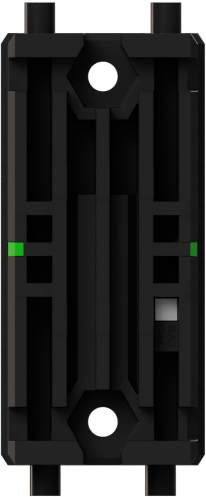
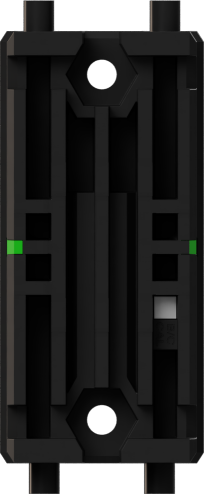
fix flipping (fully functional now)

diff --git a/core/src/com/amhsrobotics/circuitsim/hardware/Hardware.java b/core/src/com/amhsrobotics/circuitsim/hardware/Hardware.java
@@ -134,9 +134,9 @@ public abstract class Hardware {
 
         for(Sprite temp : connectors) {
             temp.setCenter(getPosition().x + (Long) pinDefs.get(connectors.indexOf(temp)).get(0), getPosition().y + (Long) pinDefs.get(connectors.indexOf(temp)).get(1));
-            Vector2 pos = new Vector2(temp.getX(), temp.getY());
+            Vector2 pos = new Vector2(temp.getX() + temp.getWidth()/2, temp.getY() + temp.getHeight()/2);
             pos.rotateAround(new Vector2(base.getX() + base.getWidth() / 2, base.getY() + base.getHeight() / 2), base.getRotation());
-            temp.setPosition(pos.x, pos.y);
+            temp.setCenter(pos.x, pos.y);
         }
 
         //MOVE CABLES

diff --git a/core/src/com/amhsrobotics/circuitsim/wiring/Cable.java b/core/src/com/amhsrobotics/circuitsim/wiring/Cable.java
@@ -257,7 +257,6 @@ public class Cable implements Disposable {
         // ---------------------------------------------------------------------
 
 
-
         // DRAW CABLE
         // ---------------------------------------------------------------------
         renderer.setColor(color);
@@ -523,9 +522,9 @@ public class Cable implements Disposable {
                 //SELECT THIS CABLE
 
                 CableManager.currentCable = this;
+                HardwareManager.currentHardware = null;
                 populateProperties();
                 CircuitGUIManager.propertiesBox.show();
-                HardwareManager.currentHardware = null;
             }
         }
     }

diff --git a/core/src/com/amhsrobotics/circuitsim/wiring/CableManager.java b/core/src/com/amhsrobotics/circuitsim/wiring/CableManager.java
@@ -1,5 +1,6 @@
 package com.amhsrobotics.circuitsim.wiring;
 
+import com.amhsrobotics.circuitsim.gui.CircuitGUIManager;
 import com.amhsrobotics.circuitsim.utility.camera.ClippedCameraController;
 import com.amhsrobotics.circuitsim.utility.input.Tuple;
 import com.badlogic.gdx.graphics.g2d.SpriteBatch;
@@ -111,6 +112,7 @@ public class CableManager {
         if(good) {
             Cable temp = new Cable(new Vector2(startX, startY), id);
             id++;
+
             currentCable = temp;
 
             temp.setAppendingFromEnd(true);

diff --git a/core/src/com/amhsrobotics/circuitsim/wiring/CrimpedCable.java b/core/src/com/amhsrobotics/circuitsim/wiring/CrimpedCable.java
@@ -33,6 +33,9 @@ public class CrimpedCable extends Cable {
         populateProperties();
         CircuitGUIManager.propertiesBox.show();
 
+        appendingFromBegin = false;
+        appendingFromEnd = false;
+
         // Will be attached to hardware in hardware, not here
     }
 
